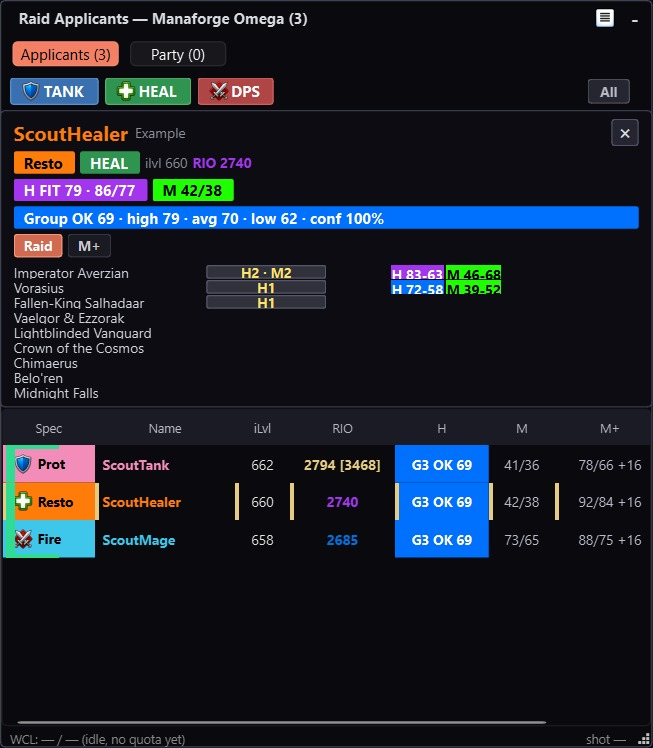
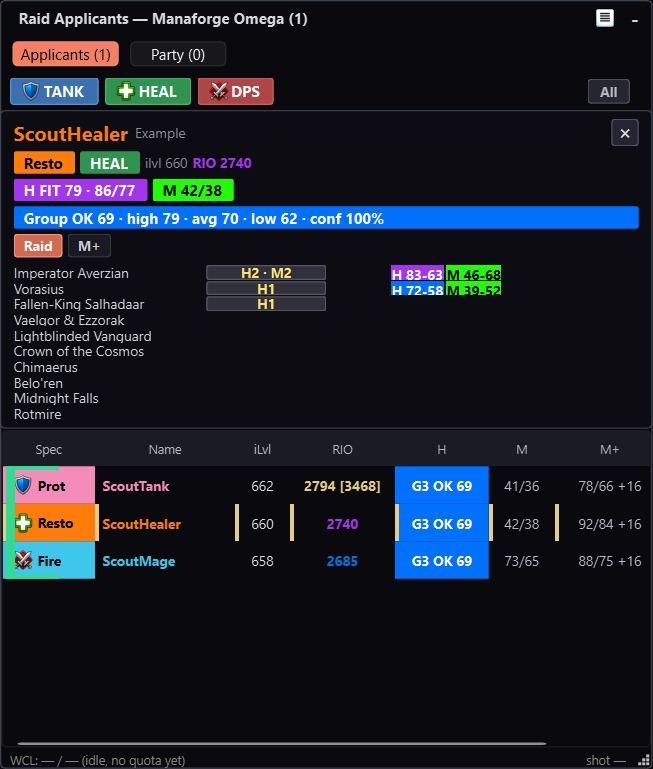
feat: prepare ApplicantScout 0.5.0

diff --git a/tests/test_transport_contract.py b/tests/test_transport_contract.py
@@ -22,7 +22,7 @@ MAYBE_TRIGGER_SCREENSHOT_ANCHOR = (
     "MaybeTriggerScreenshot = function(force, entryHint, terminalClear, lfgReadsAllowed)"
 )
 BUILD_PAYLOAD_ANCHOR = (
-    "local function BuildPayload(entry, applicantIDs, terminalClear, lfgUnavailable)"
+    "local function BuildPayload(entry, applicantIDs, terminalClear, lfgUnavailable, rosterUnavailable)"
 )
 CHECK_SESSION_TRANSITION_ANCHOR = "CheckSessionTransition = function(lfgReadsAllowed)"
 STALE_FUNCTION_ANCHORS = {
@@ -121,7 +121,9 @@ def test_non_force_screenshot_uses_transient_qr_lease_after_paint():
         "local payload = BuildPayload(entry, applicantIDs, terminalClear, lfgUnavailable)"
     )
     hash_idx = body.index("local h = HashSnapshot(payload)")
-    matrix_idx = body.index("local matrix = BuildQRMatrix(payload)")
+    matrix_idx = body.index(
+        "local matrix = BuildQRMatrix(payload, canTryRosterUnavailableFallback)"
+    )
     callback_idx = body.index("local function OnQRPaintComplete(paintOK)")
     lease_idx = body.index("local forceVisibleShotGen, forceVisibleShotDelay = _AcquireQRShotLease()", callback_idx)
     screenshot_idx = body.index("        Screenshot()")
@@ -373,7 +375,7 @@ def test_qr_capture_waits_for_render_settle_after_every_paint():
 def test_qr_library_resolution_is_nil_safe_before_missing_lib_diagnostic():
     source = _lua_source()
     qr_init_idx = source.index("local _qrencode =")
-    build_idx = source.index("local function BuildQRMatrix(payload)")
+    build_idx = source.index("local function BuildQRMatrix(payload, suppressFailurePrint)")
     init_line = source[qr_init_idx : source.index("\n", qr_init_idx)]
 
     assert qr_init_idx < build_idx
@@ -642,6 +644,10 @@ def test_transport_poll_heartbeats_active_state_without_force():
     active_idx = ticker_body.index("if isSessionActive then", transition_idx)
     heartbeat_idx = ticker_body.index("TRANSPORT_HEARTBEAT_S", active_idx)
     hash_reset_idx = ticker_body.index("lastSnapshotHash = nil", heartbeat_idx)
+    quiet_reset_idx = ticker_body.index(
+        "entryCreationKeyState.lastQuietFullPartySignature = nil",
+        hash_reset_idx,
+    )
     attempt_idx = ticker_body.index(
         "entryCreationKeyState.lastTransportHeartbeatAttemptTime = now",
         heartbeat_idx,
@@ -651,7 +657,7 @@ def test_transport_poll_heartbeats_active_state_without_force():
         active_idx,
     )
 
-    assert active_idx < heartbeat_idx < hash_reset_idx < screenshot_idx
+    assert active_idx < heartbeat_idx < hash_reset_idx < quiet_reset_idx < screenshot_idx
     assert active_idx < heartbeat_idx < attempt_idx < screenshot_idx
 
 
@@ -849,7 +855,7 @@ def test_payload_still_includes_raiderio_completion_summary():
         "local function HashSnapshot(payload)",
     )
 
-    assert "string.char(0x08)" in payload_body
+    assert "string.char(0x09)" in payload_body
     assert "_GetRaiderIOMPlusSummary(" in source
     assert "rioSummary.hasProfile" in payload_body
     assert "rioSummary.bestDungeonKey" in payload_body
@@ -863,7 +869,7 @@ def test_payload_v6_appends_current_group_roster_after_applicants():
         "local function HashSnapshot(payload)",
     )
 
-    assert "string.char(0x08)" in payload_body
+    assert "string.char(0x09)" in payload_body
     assert "BuildRosterPayloadRows(" in payload_body
     applicants_idx = payload_body.index("for _, chunk in ipairs(memberOut) do")
     roster_idx = payload_body.index("table.insert(out, _Uint16BE(rosterCount))")
@@ -1085,7 +1091,9 @@ def test_repeat_full_party_quiet_snapshot_is_suppressed_before_qr_paint():
         "local quietSignature = entryCreationKeyState.lastPayloadQuietFullPartySignature"
     )
     throttle_idx = screenshot_body.index("if not force and now - lastShotTime < SHOT_THROTTLE_S")
-    matrix_idx = screenshot_body.index("local matrix = BuildQRMatrix(payload)")
+    matrix_idx = screenshot_body.index(
+        "local matrix = BuildQRMatrix(payload, canTryRosterUnavailableFallback)"
+    )
     quiet_block = screenshot_body[
         quiet_idx : screenshot_body.index("\n    -- Encode payload", quiet_idx)
     ]
@@ -1109,7 +1117,9 @@ def test_quiet_signature_is_committed_only_after_successful_qr_paint():
     quiet_idx = screenshot_body.index(
         "local quietSignature = entryCreationKeyState.lastPayloadQuietFullPartySignature"
     )
-    matrix_idx = screenshot_body.index("local matrix = BuildQRMatrix(payload)")
+    matrix_idx = screenshot_body.index(
+        "local matrix = BuildQRMatrix(payload, canTryRosterUnavailableFallback)"
+    )
     callback_idx = screenshot_body.index("local function OnQRPaintComplete(paintOK)")
     lease_idx = screenshot_body.index(
         "local forceVisibleShotGen, forceVisibleShotDelay = _AcquireQRShotLease()"
@@ -1194,6 +1204,29 @@ def test_quiet_full_party_signature_covers_companion_visible_roster_fields():
     for field in expected_fields:
         assert field in roster_body[quiet_idx:]
     assert roster_body.count("_GetRaiderIOMPlusSummary(") == 1
+
+
+def test_quiet_full_party_signature_covers_leader_keystone_block():
+    source = _lua_source()
+    payload_body = _slice_between(
+        source,
+        BUILD_PAYLOAD_ANCHOR,
+        "local function HashSnapshot(payload)",
+    )
+    leader_idx = payload_body.index("local leaderQuietOut = {}")
+    signature_idx = payload_body.index(
+        "local leaderQuietSignature = table.concat(leaderQuietOut)",
+        leader_idx,
+    )
+    quiet_idx = payload_body.index("local quietOut = {}", signature_idx)
+
+    assert "leaderKeystone.level" in payload_body[leader_idx:signature_idx]
+    assert "leaderKeystone.challengeMapID" in payload_body[leader_idx:signature_idx]
+    assert "leaderKeystone.playerName" in payload_body[leader_idx:signature_idx]
+    assert "table.insert(quietOut, _Uint16BE(#leaderQuietSignature))" in payload_body[
+        quiet_idx:
+    ]
+    assert "table.insert(quietOut, leaderQuietSignature)" in payload_body[quiet_idx:]
 
 
 def test_terminal_clear_is_only_passed_by_end_session():
@@ -1416,15 +1449,17 @@ def test_terminal_clear_skips_roster_block_but_normal_roster_survives():
     )
     assert "local rosterOut, rosterCount = {}, 0" in payload_body
     assert "local rosterIncomplete = false" in payload_body
-    assert "if not terminalClear then" in payload_body
+    assert "if not terminalClear and not rosterUnavailable then" in payload_body
     roster_call_idx = payload_body.index("BuildRosterPayloadRows(")
-    terminal_guard_idx = payload_body.index("if not terminalClear then")
+    terminal_guard_idx = payload_body.index(
+        "if not terminalClear and not rosterUnavailable then"
+    )
     count_idx = payload_body.index("table.insert(out, _Uint16BE(rosterCount))")
     assert terminal_guard_idx < roster_call_idx < count_idx
     assert "for _, chunk in ipairs(rosterOut) do" in payload_body
 
 
-def test_payload_v8_header_flags_distinguish_terminal_and_lfg_unavailable():
+def test_payload_v9_header_flags_distinguish_terminal_and_lfg_unavailable():
     source = _lua_source()
     payload_body = _slice_between(
         source,
@@ -1432,7 +1467,7 @@ def test_payload_v8_header_flags_distinguish_terminal_and_lfg_unavailable():
         "local function HashSnapshot(payload)",
     )
 
-    assert "string.char(0x08)" in payload_body
+    assert "string.char(0x09)" in payload_body
     assert "local headerFlags = 0" in payload_body
     assert "if terminalClear then" in payload_body
     assert "0x01" in payload_body
@@ -1440,6 +1475,57 @@ def test_payload_v8_header_flags_distinguish_terminal_and_lfg_unavailable():
     assert "0x02" in payload_body
     assert "table.insert(out, string.char(headerFlags))" in payload_body
     assert 'table.insert(out, "\\0")' in payload_body
+
+
+def test_payload_v9_can_omit_roster_with_explicit_flag():
+    source = _lua_source()
+    payload_body = _slice_between(
+        source,
+        BUILD_PAYLOAD_ANCHOR,
+        "local function HashSnapshot(payload)",
+    )
+
+    assert "string.char(0x09)" in payload_body
+    assert "rosterUnavailable" in payload_body
+    assert "if rosterUnavailable then" in payload_body
+    assert "headerFlags = headerFlags + 0x04" in payload_body
+    assert "if not terminalClear and not rosterUnavailable then" in payload_body
+    assert "entryCreationKeyState.lastPayloadRosterUnavailable = rosterUnavailable == true" in payload_body
+
+
+def test_qr_build_failure_falls_back_to_roster_unavailable_payload():
+    source = _lua_source()
+    screenshot_body = _slice_between(
+        source,
+        MAYBE_TRIGGER_SCREENSHOT_ANCHOR,
+        "-- LFG entry creation",
+    )
+
+    fallback_gate_idx = screenshot_body.index("local canTryRosterUnavailableFallback =")
+    full_matrix_idx = screenshot_body.index(
+        "local matrix = BuildQRMatrix(payload, canTryRosterUnavailableFallback)",
+        fallback_gate_idx,
+    )
+    fallback_idx = screenshot_body.index(
+        "BuildPayload(entry, applicantIDs, terminalClear, lfgUnavailable, true)",
+        full_matrix_idx,
+    )
+    fallback_hash_idx = screenshot_body.index(
+        "local fallbackHash = HashSnapshot(fallbackPayload)",
+        fallback_idx,
+    )
+    fallback_matrix_idx = screenshot_body.index(
+        "local fallbackMatrix = BuildQRMatrix(fallbackPayload)",
+        fallback_hash_idx,
+    )
+    failed_hash_idx = screenshot_body.index("lastSnapshotHash = h", fallback_matrix_idx)
+
+    assert fallback_gate_idx < full_matrix_idx < fallback_idx
+    assert full_matrix_idx < fallback_hash_idx < fallback_matrix_idx
+    assert fallback_matrix_idx < failed_hash_idx
+    assert "entryCreationKeyState.lastPayloadRosterCount > 0" in screenshot_body[
+        fallback_gate_idx:full_matrix_idx
+    ]
 
 
 def test_terminal_clear_payload_suppresses_leader_key_block():
@@ -2626,7 +2712,7 @@ def test_large_qr_payloads_try_hex_low_correction_before_raw_byte_mode():
     source = _lua_source()
     build_body = _slice_between(
         source,
-        "local function BuildQRMatrix(payload)",
+        "local function BuildQRMatrix(payload, suppressFailurePrint)",
         "-- State for trigger throttling + dedup",
     )
 

diff --git a/tests/test_release_workflow_contract.py b/tests/test_release_workflow_contract.py
@@ -1029,7 +1029,7 @@ def test_package_script_rejects_private_directories_and_legacy_claude_docs():
 def test_readme_documents_current_wire_version_and_transient_qr_visibility():
     readme = _read_repo_text("README.md")
 
-    assert "Wire payload: compact v8" in readme
+    assert "Wire payload: compact v9" in readme
     assert "Wire payload: compact v5" not in readme
     assert "stays visible during an\nactive capture session" not in readme
     assert "screenshot capture window" in readme

diff --git a/CHANGELOG.md b/CHANGELOG.md
@@ -2,6 +2,34 @@
 
 ## Unreleased
 
+## 0.5.0 - 03-Jul-2026 - Companion 0.9.0 APS1 v9 release train
+
+This paired addon + companion release advances QR transport to compact APS1 v9
+for large applicant bursts and ships ApplicantScout Companion `0.9.0` with
+Rotmire raid-detail support for Sporefall.
+
+### Added
+
+- Added an APS1 v9 roster-omitted fallback for very large applicant snapshots.
+  When the full applicant + Party payload is too dense to render safely, the
+  addon can still send the applicant update while telling the companion to keep
+  its current Party roster instead of clearing it.
+- Included leader-keystone context in the quiet full-Party dedupe signature so
+  heartbeat resends refresh when the host key changes.
+
+### Fixed
+
+- Heartbeat full-Party snapshots no longer get suppressed by the previous quiet
+  full-party dedupe marker after the normal snapshot hash is reset.
+- Large applicant bursts are less likely to leave the companion overlay showing
+  stale applicants when WoW hits the QR texture/render budget.
+
+### Notes
+
+- This addon release is paired with ApplicantScout Companion `0.9.0`.
+- Wire payloads advance to compact APS1 v9. Keep the addon and companion paired
+  for roster-omitted applicant snapshots.
+
 ## 0.4.11 - 30-Jun-2026 - Retail 12.1.0 compatibility metadata
 
 This addon-only patch adds Retail 12.1.0 compatibility metadata while keeping

diff --git a/README.md b/README.md
@@ -155,8 +155,8 @@ the wrong folder, or the Screenshots folder is synced/shared before cleanup.
 - WoW Retail Midnight: Interface `120007, 120100`.
 - Latest ApplicantScout addon release.
 - Latest ApplicantScout Companion release.
-- Wire payload: compact v8 (`APS1`) with optional RaiderIO, raid/M+ roster,
-  leader-keystone context, and temporary LFG-lockdown handling.
+- Wire payload: compact v9 (`APS1`) with optional RaiderIO, raid/M+ roster,
+  leader-keystone context, and partial snapshot handling.
 - Classic-era clients are not supported.
 
 ## Troubleshooting